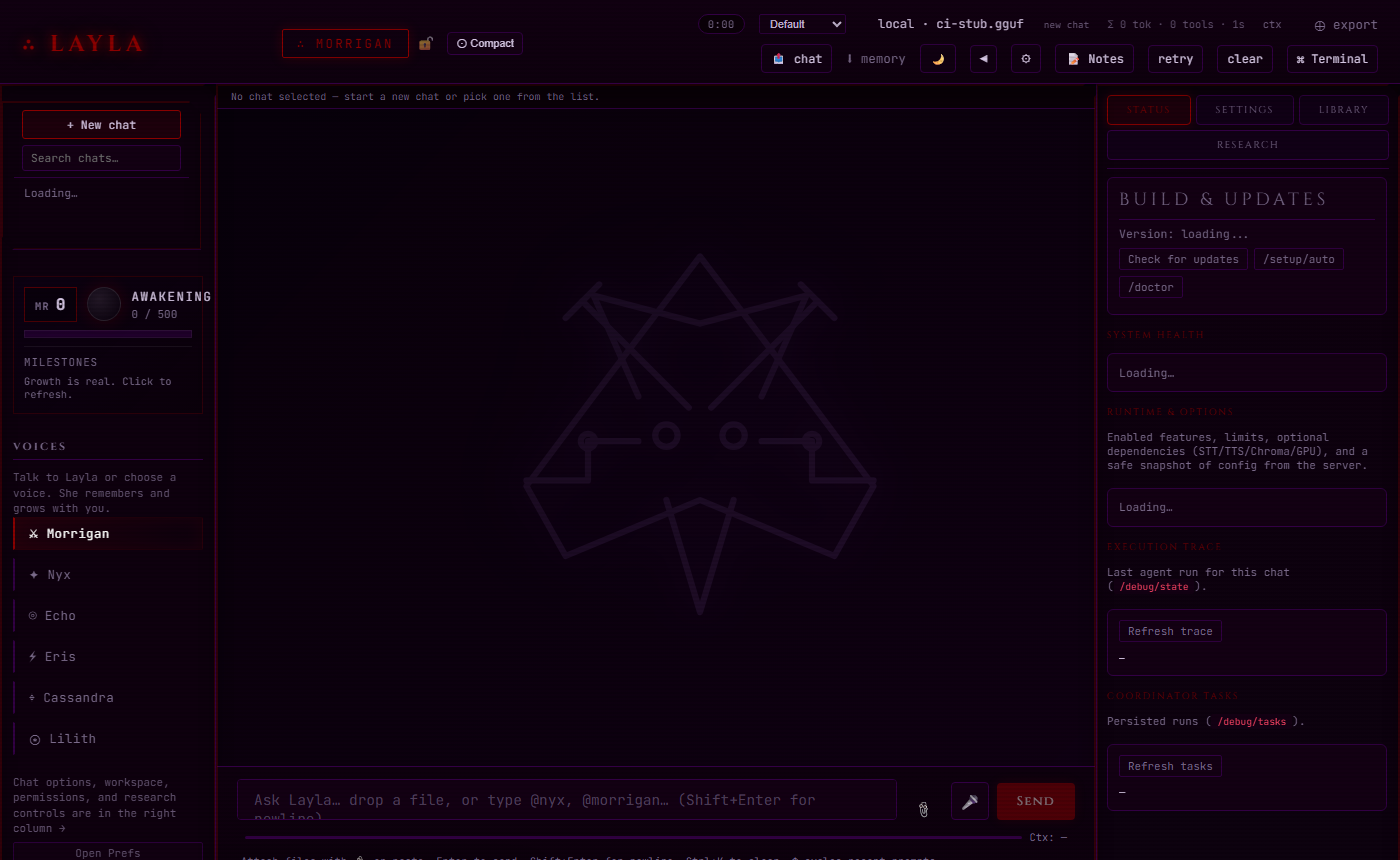
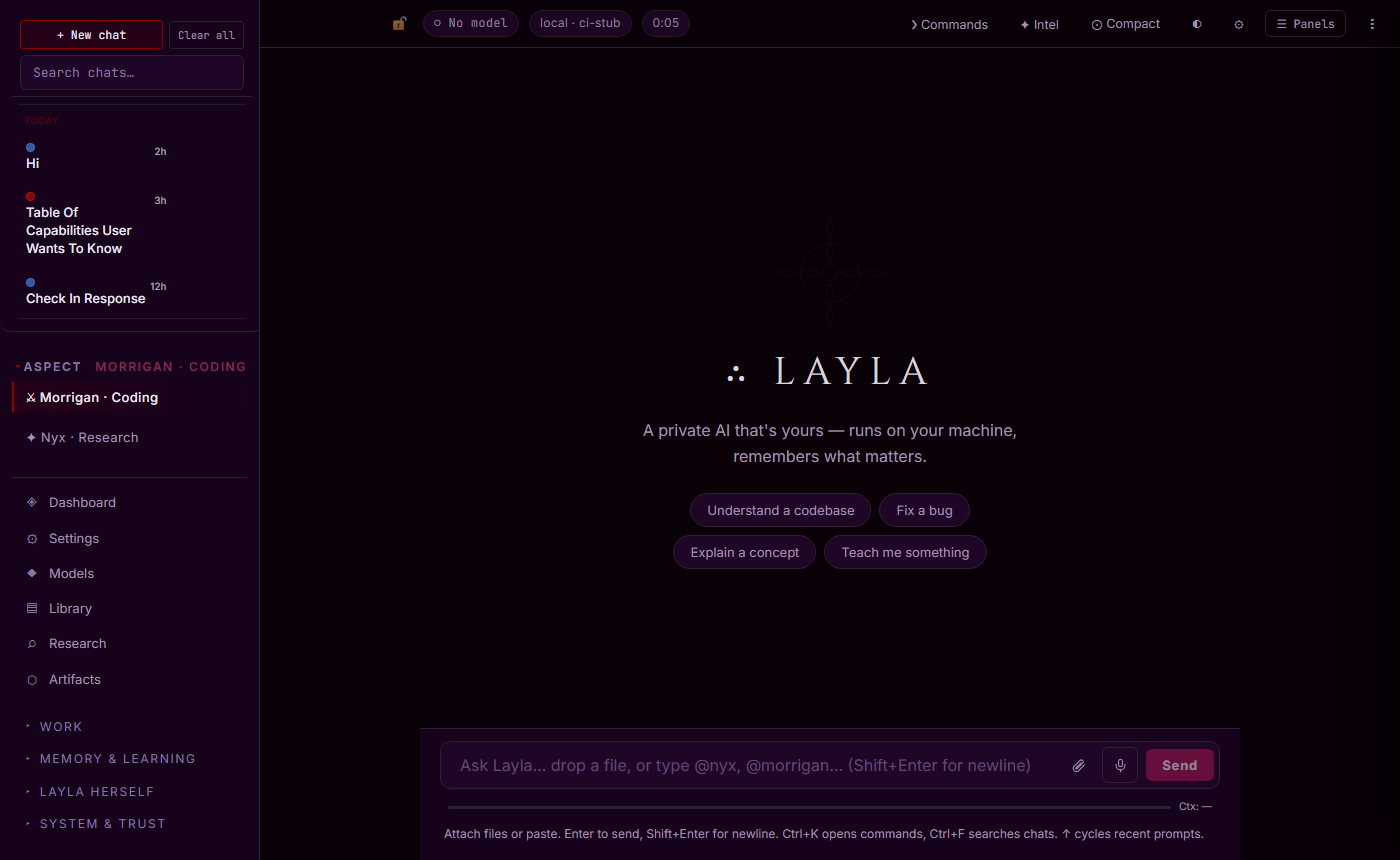
chore: strip AI-artifact folders, refresh screenshots, scrub emulation references
- Remove internal AI-artifact dirs from the repo: .planning/ (74 files), repo_state/ — kept out via
  .gitignore; .identity/ stays (read at runtime by the prompt builder), .cursor/ stays (documented
  Cursor integration), .github/ stays (CI).
- Regenerate README screenshots from the current Web UI (hero, full page, approvals, demo.gif).
- Scrub all "OpenClaw / CCUnpacked / OpenClaude / Claude Code Unpacked" emulation references from the
  tree: delete agent/tests/test_openclaw_emulation.py and integrations/README.md; reword the docstrings
  and comments across ~12 source files to neutral descriptions of the real features (the code itself is
  unchanged and functional); rename the config key openclaw_gateway_url -> external_gateway_url and the
  tool group group:openclaw -> group:all; relocate the on-disk emulation notes to a gitignored /_private/.

Affected code verified: AST-clean, example config valid, tool_policy/system_doctor/markdown_skills
tests green.

diff --git a/agent/services/infrastructure/system_doctor.py b/agent/services/infrastructure/system_doctor.py
@@ -335,7 +335,7 @@ def run_diagnostics(include_llm: bool = False) -> dict[str, Any]:
     except Exception as e:
         report["checks"]["port_8000"] = {"error": str(e)}
 
-    # Optional optional layer / sidecar gateway reachability (config-gated)
+    # Optional external gateway reachability (config-gated)
     try:
         import urllib.error
         import urllib.parse
@@ -348,7 +348,7 @@ def run_diagnostics(include_llm: bool = False) -> dict[str, Any]:
         if gw_raw:
             parsed = urllib.parse.urlparse(gw_raw)
             if parsed.scheme not in ("http", "https"):
-                report["checks"]["optional_gateway"] = {
+                report["checks"]["external_gateway"] = {
                     "ok": False,
                     "error": "external_gateway_url must be http(s)",
                 }
@@ -361,31 +361,31 @@ def run_diagnostics(include_llm: bool = False) -> dict[str, Any]:
                 try:
                     req = urllib.request.Request(check_url, method="GET")
                     with urllib.request.urlopen(req, timeout=3) as r:
-                        report["checks"]["optional_gateway"] = {
+                        report["checks"]["external_gateway"] = {
                             "ok": 200 <= (r.status or 0) < 500,
                             "url": check_url,
                             "http_status": r.status,
                         }
                 except urllib.error.HTTPError as e:
-                    report["checks"]["optional_gateway"] = {
+                    report["checks"]["external_gateway"] = {
                         "ok": e.code in (401, 403, 404),
                         "url": check_url,
                         "http_status": e.code,
                         "note": "reachable but non-200",
                     }
                 except Exception as e:
-                    report["checks"]["optional_gateway"] = {
+                    report["checks"]["external_gateway"] = {
                         "ok": False,
                         "url": check_url,
                         "error": str(e),
                     }
         else:
-            report["checks"]["optional_gateway"] = {
+            report["checks"]["external_gateway"] = {
                 "skipped": True,
                 "reason": "external_gateway_url not set",
             }
     except Exception as e:
-        report["checks"]["optional_gateway"] = {"error": str(e)}
+        report["checks"]["external_gateway"] = {"error": str(e)}
 
     # Skills registry
     try:

diff --git a/agent/services/tools/tool_policy.py b/agent/services/tools/tool_policy.py
@@ -1,5 +1,5 @@
 """
-optional tool governance: profile, allow/deny lists, group:* expansion.
+Tool governance: profile, allow/deny lists, group:* expansion.
 Combines with intent-based filtering from intent_detection.
 """
 from __future__ import annotations
@@ -12,7 +12,7 @@ from services.tools.intent_detection import _get_tool_category, filter_tools_by_
 
 logger = logging.getLogger("layla")
 
-# internal group names -> Layla tool categories (expanded via registry)
+# Group names -> Layla tool categories (expanded via registry)
 _GROUP_TO_CATEGORIES: dict[str, tuple[str, ...]] = {
     "group:fs": ("filesystem",),
     "group:code": ("code",),
@@ -22,10 +22,10 @@ _GROUP_TO_CATEGORIES: dict[str, tuple[str, ...]] = {
     "group:automation": ("automation",),
     "group:data": ("data",),
     "group:analysis": ("analysis",),
-    # optional layer "runtime" ~= shell + run_python
+    # "runtime" ~= shell + run_python
     "group:runtime": (),
     "group:sessions": (),  # no Layla equivalent; empty
-    "group:optional": (),  # placeholder; treated as all built-ins when combined with profile
+    "group:all": (),  # placeholder; treated as all built-ins when combined with profile
 }
 
 _RUNTIME_TOOL_NAMES = frozenset({"shell", "run_python", "shell_session_start", "shell_session_manage"})
@@ -197,8 +197,8 @@ def _build_default_merged_groups(all_names: set[str], tools_dict: dict[str, Any]
             merged[gname] = frozenset(_tools_for_categories(tools_dict, cats))
         else:
             merged[gname] = frozenset()
-    # group:optional = union of common built-ins (everything except exotic plugins — use all registered)
-    merged["group:optional"] = frozenset(all_names)
+    # group:all = union of common built-ins (everything except exotic plugins — use all registered)
+    merged["group:all"] = frozenset(all_names)
     return merged
 
 

diff --git a/agent/layla/tools/impl/general.py b/agent/layla/tools/impl/general.py
@@ -136,7 +136,7 @@ def structured_llm_task(
     schema_hint: str = "",
     max_tokens: int = 256,
 ) -> dict:
-    """One bounded LLM step that should return JSON (optional layer llm-task style). No file writes."""
+    """One bounded LLM step that should return JSON. No file writes."""
     import json as _json
 
     from services.llm.llm_gateway import run_completion
@@ -434,7 +434,7 @@ def mcp_operator_auth_hint() -> dict:
             "Then set mcp_client_enabled and mcp_stdio_servers (name, command, args) in runtime_config.json. "
             "Use mcp_list_mcp_tools / mcp_tools_call after the server process can start authenticated."
         ),
-        "see_also": "docs/BRIDGE_NOTE.md (MCP / OAuth row), agent/runtime_config.example.json",
+        "see_also": "agent/runtime_config.example.json",
     }
 
 def notebook_read_cells(path: str, max_cells: int = 80) -> dict:

diff --git a/agent/layla/tools/impl/memory.py b/agent/layla/tools/impl/memory.py
@@ -66,11 +66,11 @@ def search_memories(query: str, n: int = 8) -> dict:
             return {"ok": False, "error": str(e)}
 
 def memory_search(query: str, n: int = 8) -> dict:
-    """optional alias: search long-term memory and learnings (same as search_memories)."""
+    """Alias: search long-term memory and learnings (same as search_memories)."""
     return search_memories(query, n=n)
 
 def memory_get(query: str, n: int = 5) -> dict:
-    """optional: retrieve memory snippets by semantic query."""
+    """Retrieve memory snippets by semantic query."""
     return search_memories(query, n=n)
 
 def vector_search(query: str, collection: str = "knowledge", k: int = 8) -> dict:

diff --git a/agent/services/skills/markdown_skills.py b/agent/services/skills/markdown_skills.py
@@ -44,9 +44,9 @@ def _requires_ok(meta: dict[str, Any]) -> bool:
     if req is None:
         raw_metadata = meta.get("metadata")
         if isinstance(raw_metadata, dict):
-            optional = raw_metadata.get("optional")
-            if isinstance(optional, dict):
-                req = optional.get("requires")
+            tool_requirements = raw_metadata.get("tool_requirements")
+            if isinstance(tool_requirements, dict):
+                req = tool_requirements.get("requires")
     # Normalize str/list requires to dict form for uniform handling below
     if isinstance(req, str):
         req = {"bins": [req]}

diff --git a/agent/services/agent/tool_guards.py b/agent/services/agent/tool_guards.py
@@ -37,7 +37,7 @@ def run_tool_guards(
     guards. Counting rejections against ``tool_calls`` was the cap-misfire:
     a few disallowed/looped/duplicate decisions on a simple turn exhausted the
     work budget without ever running a tool, tripping "max tool calls"."""
-    # optional tool policy: block execution outside effective tool set
+    # Optional tool policy: block execution outside effective tool set
     if intent not in ("reason", "finish", "wakeup") and intent in valid_tools:
         from services.tools.tool_policy import tool_allowed
 

diff --git a/transports/base.py b/transports/base.py
@@ -2,8 +2,8 @@
 Unified transport layer for Layla. Single call_layla() with config and error handling.
 Discord, Slack, Telegram use this as thin adapters.
 
-Inbound security (optional): optional allowlist + optional /pair <secret>.
-See transports/README.md and docs/ALIGNMENT_NOTE.md.
+Inbound security: optional allowlist + optional /pair <secret>.
+See transports/README.md.
 
 Security posture for transport-originated turns (Slack/Telegram/Discord):
   * They are UNTRUSTED input. ``TransportAdapter`` FORCES ``allow_write=allow_run=False``

diff --git a/agent/scripts/check_imports.py b/agent/scripts/check_imports.py
@@ -27,7 +27,7 @@ if str(AGENT_DIR) not in sys.path:
 
 SKIP_DIRS = {"venv", ".venv", "__pycache__", ".git", "node_modules", "models",
              "chroma_db", "layla.egg-info", "build", "dist",
-             "fabrication_assist", "reference-cli", "reference-harness",
+             "fabrication_assist",
              "discord_bot", "integrations", "cursor-layla-mcp"}
 
 # These are optional/conditional dependencies — warn but don't fail

diff --git a/agent/services/agent/llm_decision.py b/agent/services/agent/llm_decision.py
@@ -43,7 +43,7 @@ def get_tools_for_goal(
     valid_tools_all: frozenset,
 ) -> frozenset:
     """
-    Return tool names for this turn.  Applies optional tool_policy
+    Return tool names for this turn.  Applies the optional tool_policy
     (profile, tools_allow/deny, groups) then intent-based subset when
     tool_routing_enabled.
     """

diff --git a/agent/services/tools/tool_loop_detection.py b/agent/services/tools/tool_loop_detection.py
@@ -1,5 +1,5 @@
 """
-Detect repetitive tool-call patterns (optional loop detection).
+Detect repetitive tool-call patterns (loop detection).
 """
 from __future__ import annotations
 

diff --git a/agent/services/infrastructure/shell_sessions.py b/agent/services/infrastructure/shell_sessions.py
@@ -1,5 +1,5 @@
 """
-Background shell sessions (optional process tool subset).
+Background shell sessions (process tool subset).
 """
 from __future__ import annotations
 

diff --git a/ARCHITECTURE.md b/ARCHITECTURE.md
@@ -82,7 +82,7 @@ Client
 
 **Slack / Telegram** (optional): `transports/` — Socket Mode Slack and Telegram polling; same `/agent` bridge as Discord. Note: transport files are referenced in docs but may not be present in all installations.
 
-**Transport inbound policy** (optional, optional): `transports/base.py` — env `LAYLA_TRANSPORT_ALLOWLIST`, `LAYLA_TRANSPORT_PAIRING_SECRET` (`/pair`), config `transport_allowlist`, `transport_require_allowlist`. Paired ids: repo-root `.layla_transport_paired.json` (gitignored). See `docs/ALIGNMENT_NOTE.md`, `docs/BRIDGE_NOTE.md`. **Integrations sweep:** `docs/INTEGRATIONS_MODULE_SECOND_SWEEP.md`.
+**Transport inbound policy** (optional): `transports/base.py` — env `LAYLA_TRANSPORT_ALLOWLIST`, `LAYLA_TRANSPORT_PAIRING_SECRET` (`/pair`), config `transport_allowlist`, `transport_require_allowlist`. Paired ids: repo-root `.layla_transport_paired.json` (gitignored).
 
 **Operator surfaces (local):** **`cursor-layla-mcp/server.py`** — MCP stdio server; `LAYLA_BASE_URL` (default `http://127.0.0.1:8000`) → `POST /agent`, `/approve`, `/pending`, etc. **`layla.py`** (repo root) — CLI via httpx to `http://localhost:8000`. Deep pass: `docs/MCP_MODULE_SECOND_SWEEP.md`.
 
@@ -95,7 +95,7 @@ Client
 
 **Structured tool args** (optional): `services/tool_args.py` validates `decision["args"]` for selected tools when `tool_args_validation_enabled`.
 
-**optional core emulation** (optional): `services/tool_policy.py` (`tools_profile`, `tools_allow`/`tools_deny`, `group:*`, `tools_by_provider`) + intent filter + pre-exec guard in `agent_loop`; `services/tool_loop_detection.py` (`push_and_evaluate(..., reasoning_mode=)`, `exact_call_key`); `services/tool_output_validator.py` (post-tool dict hygiene); per-run exact duplicate tool invocation suppression in `agent_loop`; `services/shell_sessions.py` (`shell_session_start` / `shell_session_manage`); `services/http_response_cache.py`; `services/markdown_skills.py` + repo `skills/`; `inference_fallback_urls` + non-stream retries in `inference_router.py`; `browser_persistent_profiles` in `services/browser.py`. See `docs/ALIGNMENT_NOTE.md`.
+**Optional tool-policy & hygiene layer**: `services/tool_policy.py` (`tools_profile`, `tools_allow`/`tools_deny`, `group:*`, `tools_by_provider`) + intent filter + pre-exec guard in `agent_loop`; `services/tool_loop_detection.py` (`push_and_evaluate(..., reasoning_mode=)`, `exact_call_key`); `services/tool_output_validator.py` (post-tool dict hygiene); per-run exact duplicate tool invocation suppression in `agent_loop`; `services/shell_sessions.py` (`shell_session_start` / `shell_session_manage`); `services/http_response_cache.py`; `services/markdown_skills.py` + repo `skills/`; `inference_fallback_urls` + non-stream retries in `inference_router.py`; `browser_persistent_profiles` in `services/browser.py`.
 
 **agent_loop.autonomous_run():**
 1. `runtime_safety.load_config()` — TTL-cached, hot-path safe
